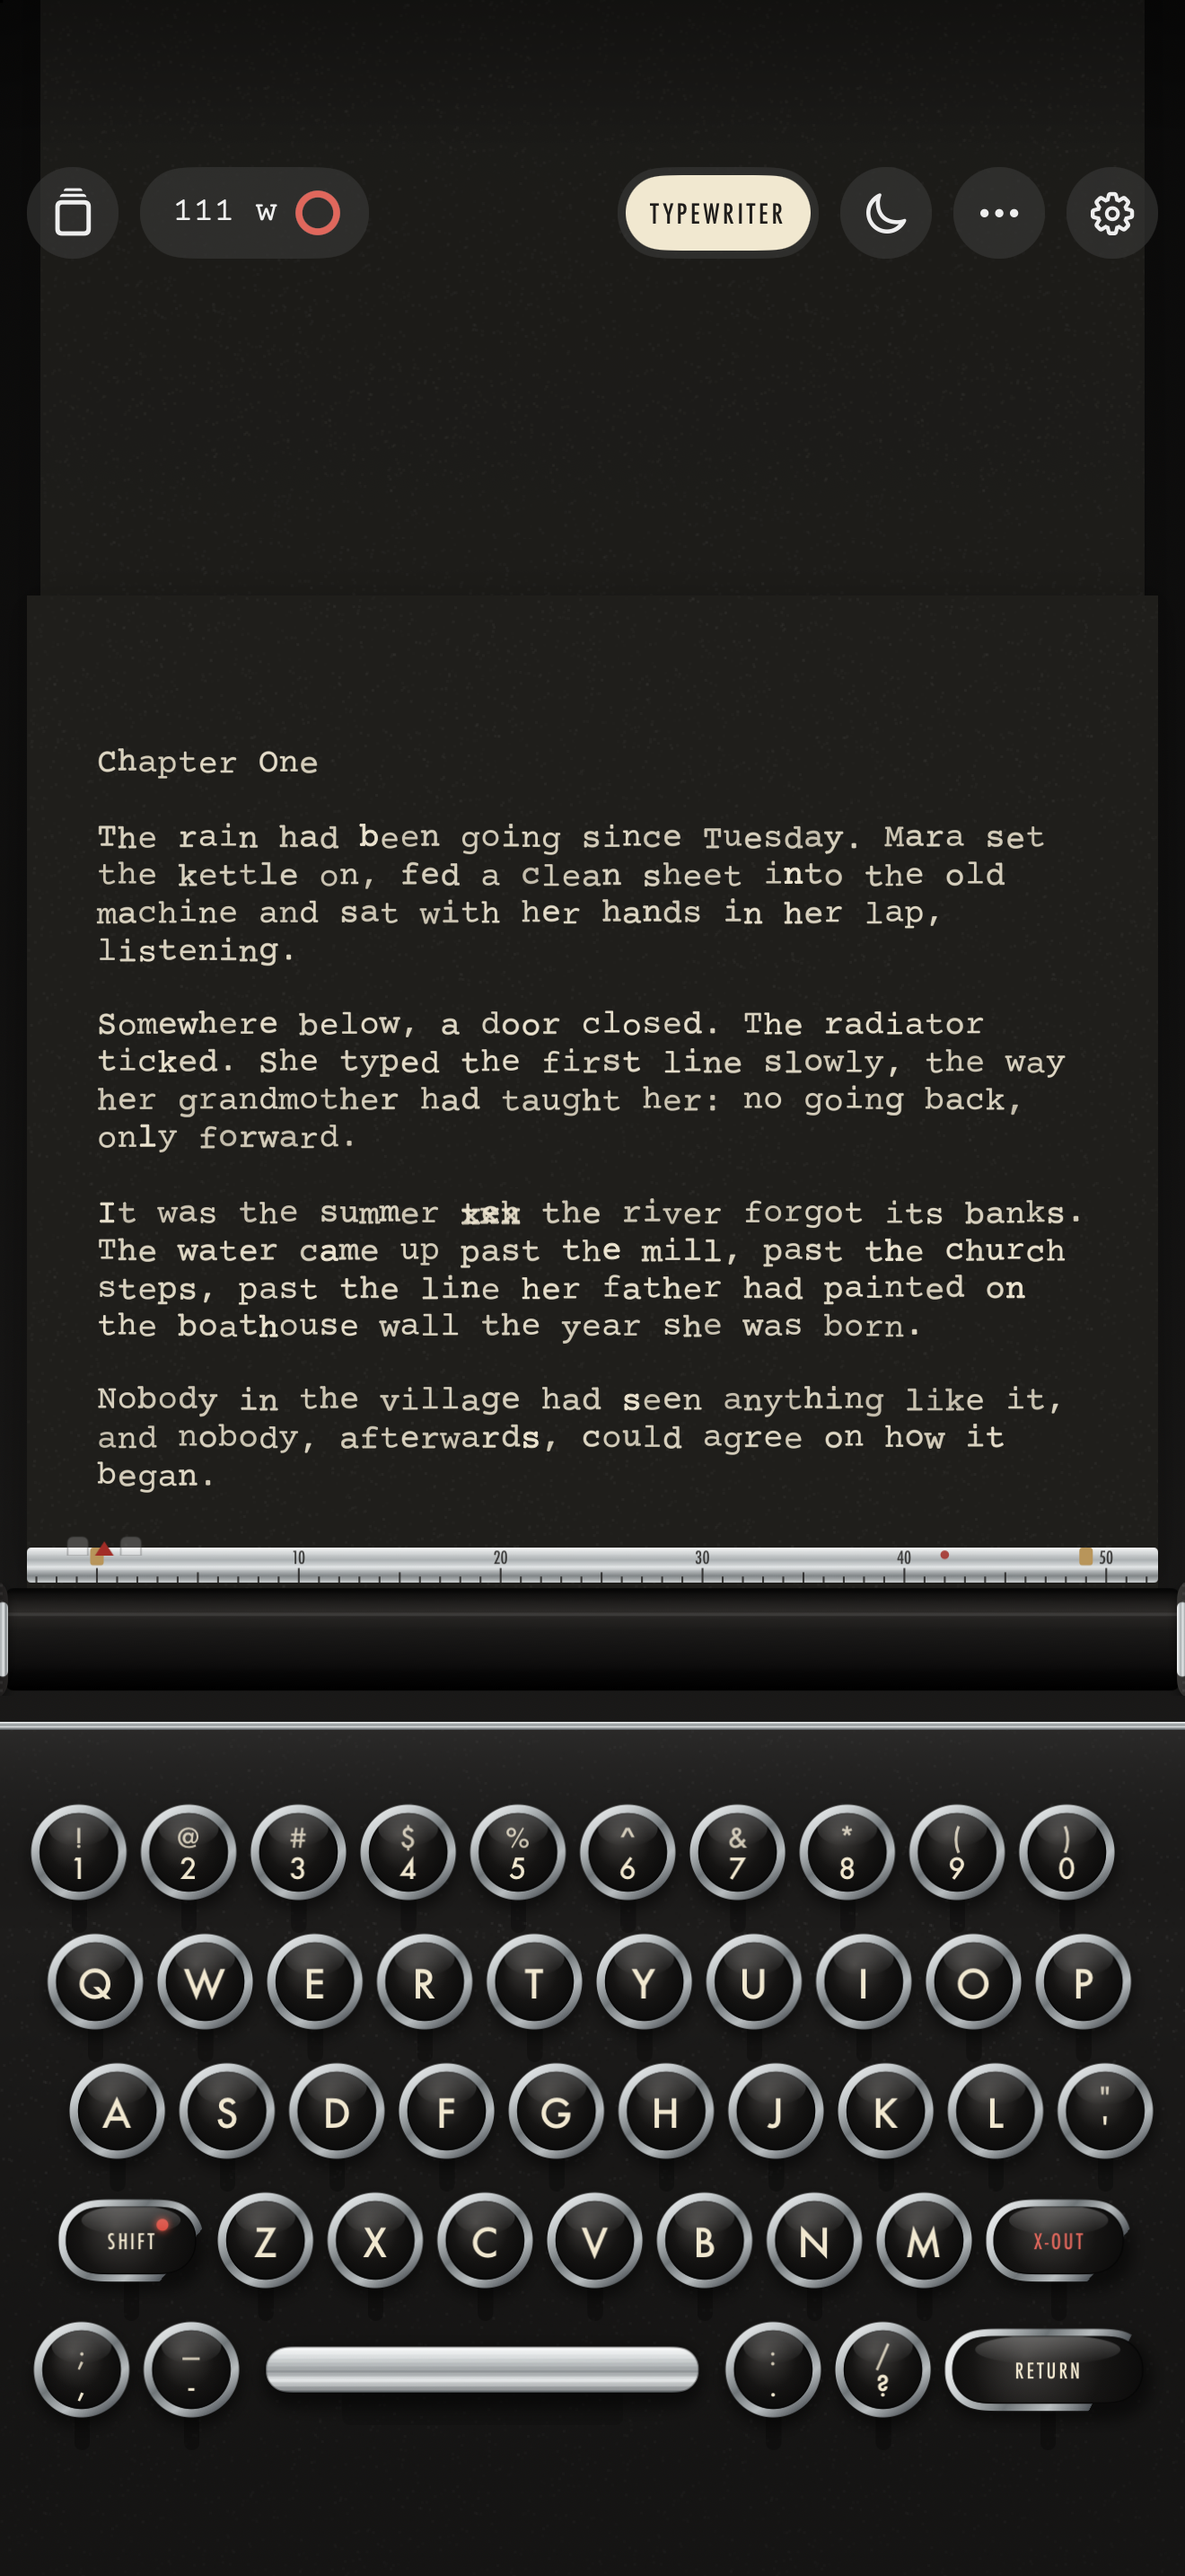
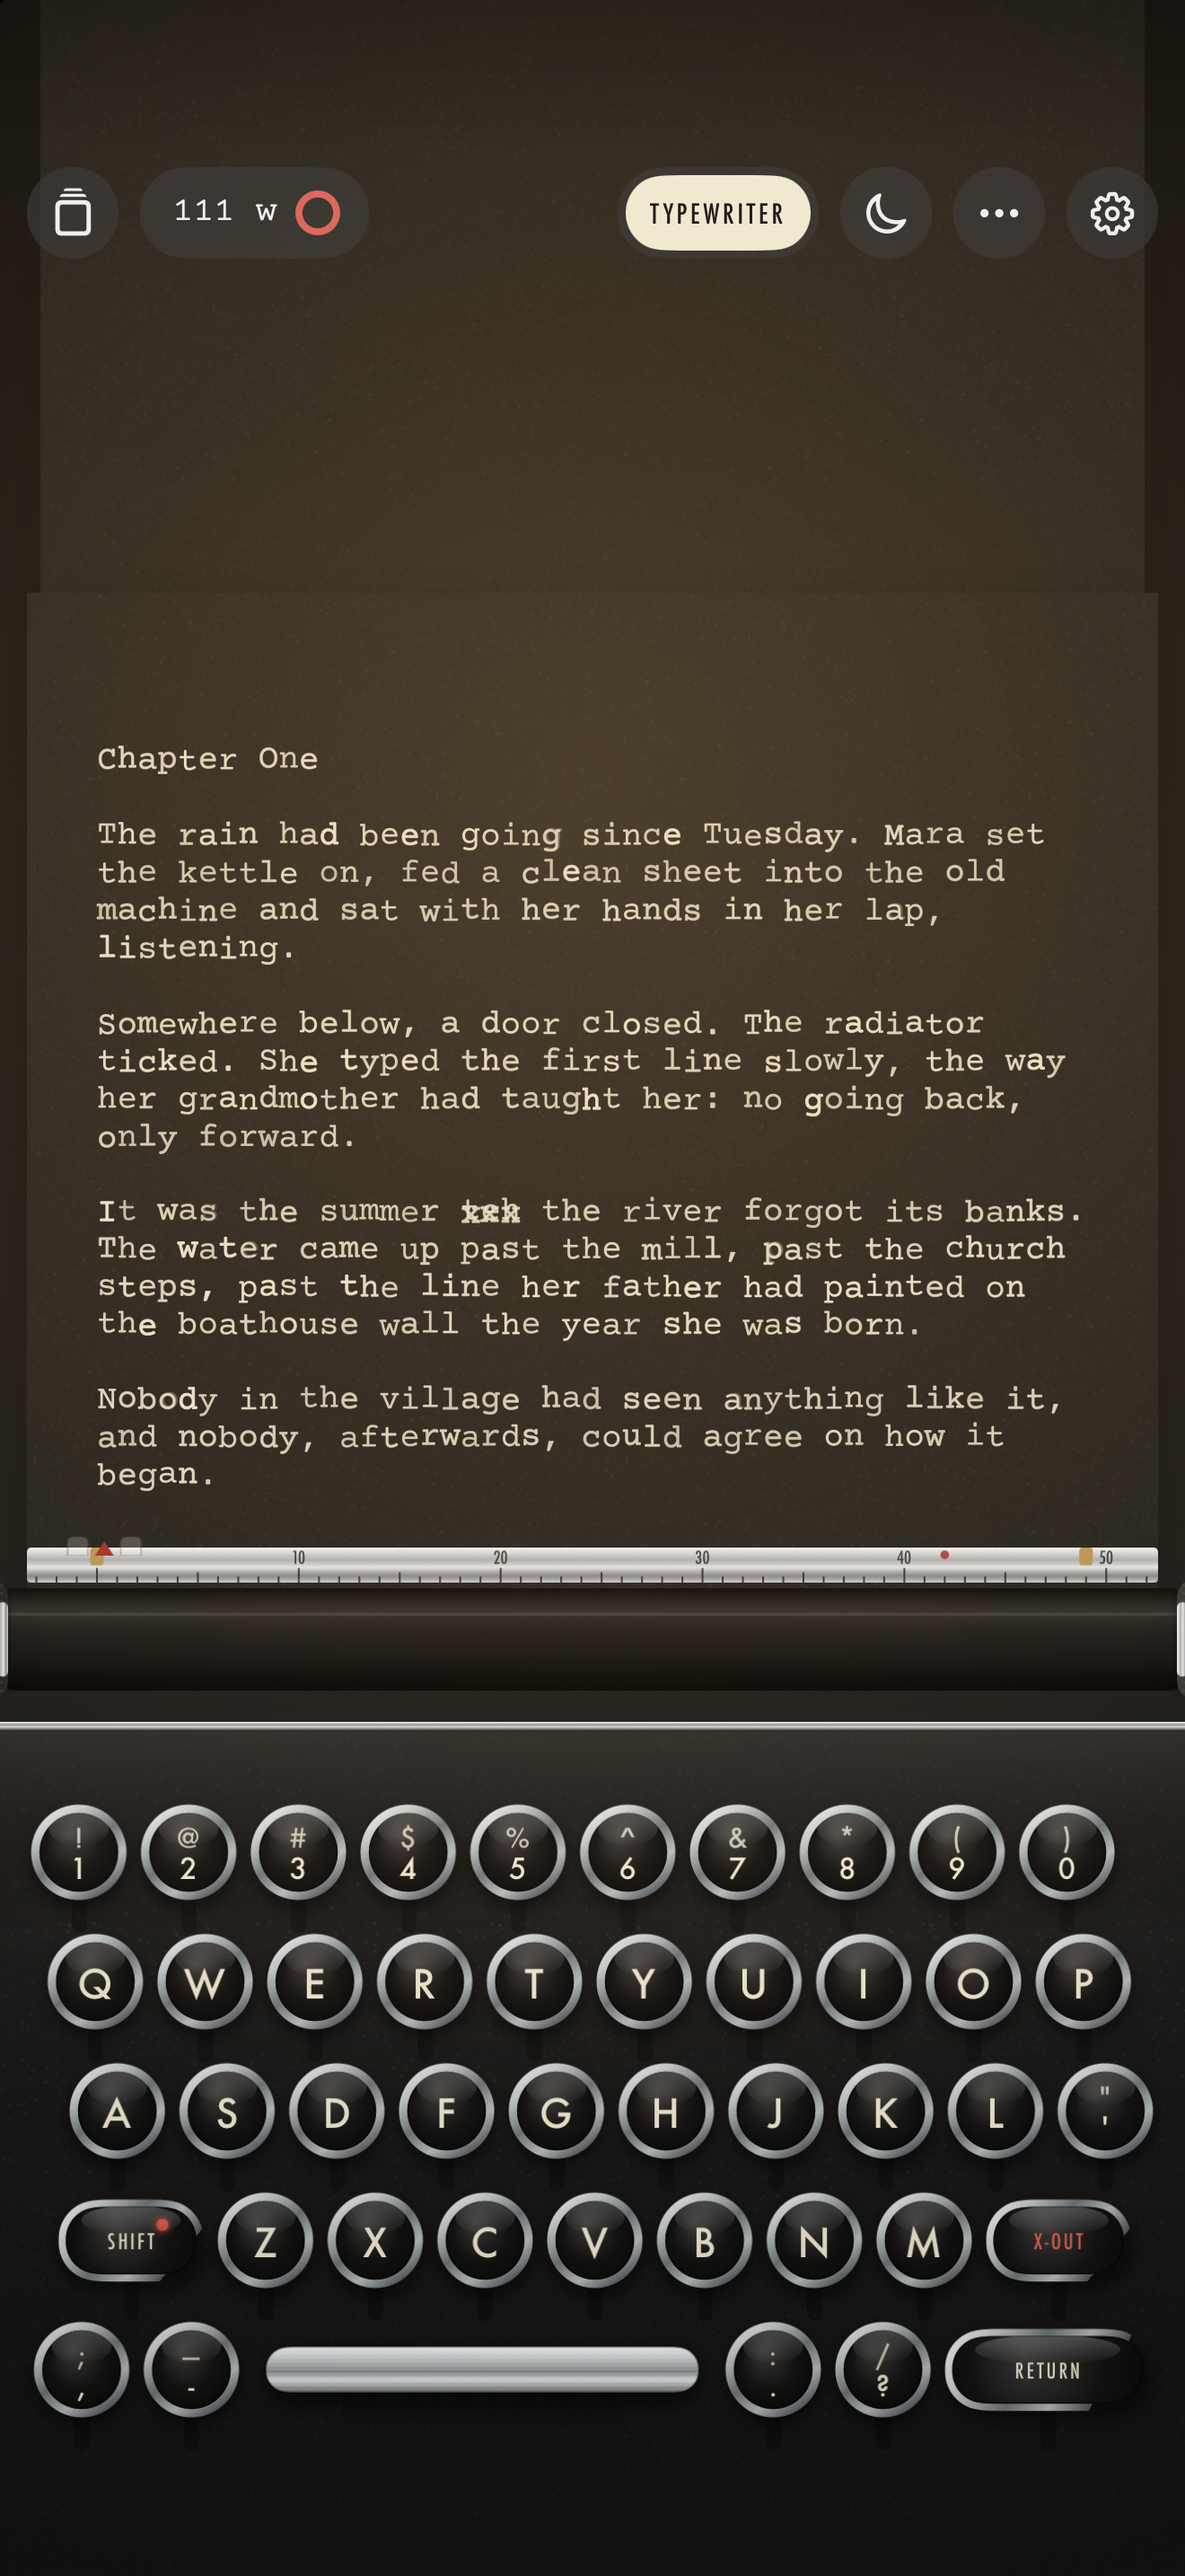
Retake the screenshots under the desk lamp, and list the new touches

diff --git a/docs/APP_STORE.md b/docs/APP_STORE.md
@@ -29,7 +29,9 @@ A BEAUTIFUL MACHINE
 • Gentle, true-to-life sounds for every part of the machine: the keys, the space bar, the carriage slide and the bell near the margin. Four machines to choose from.
 • Ink that sits on the paper like real type, a little uneven from letter to letter.
 • Four paper stocks, from crisp bond to onion skin, four ribbon colours and five machine finishes, from seafoam to cherry. Night desk for light ink on dark paper.
-• Push the paper to return the carriage, like the real thing.
+• Push the paper to return the carriage, like the real thing, and feel every part of it: the keys, the ratchet, the bell.
+• Desk sounds under the keys: a quiet room, rain on the window or a fireplace. A warm desk lamp that follows the hour.
+• Engrave your name on the brass plate.
 
 MADE FOR IPHONE DUO
 • Half-fold it like a tiny laptop: the page on the top half, a full typewriter keyboard on the bottom.

diff --git a/README.md b/README.md
@@ -44,6 +44,8 @@ The hinge (`UIHingeInteraction`) and fold-line (`reservedRegions(kind: .division
 | `-foldSimulation halfOpen` | Fake a posture: `regular`, `closed`, `halfOpen`, `flat`, `flatBook` (also in Settings › Developer) |
 | `-seedDemo` | Fill an empty library with sample pages and two weeks of writing history |
 | `-unlocked` | Act as if the unlock is bought, for screenshots |
+| `-lampHour 21` | Light the desk lamp for that hour |
+| `-engraving "J. Lee"` | Engrave a name on the plate |
 | `-hardwareKeyboard` | Act as if a hardware keyboard is attached |
 | `-uiTesting` | Use an in-memory store |
 | `-seedLongPage` | Start with a 20,000-word page, for checking speed |
